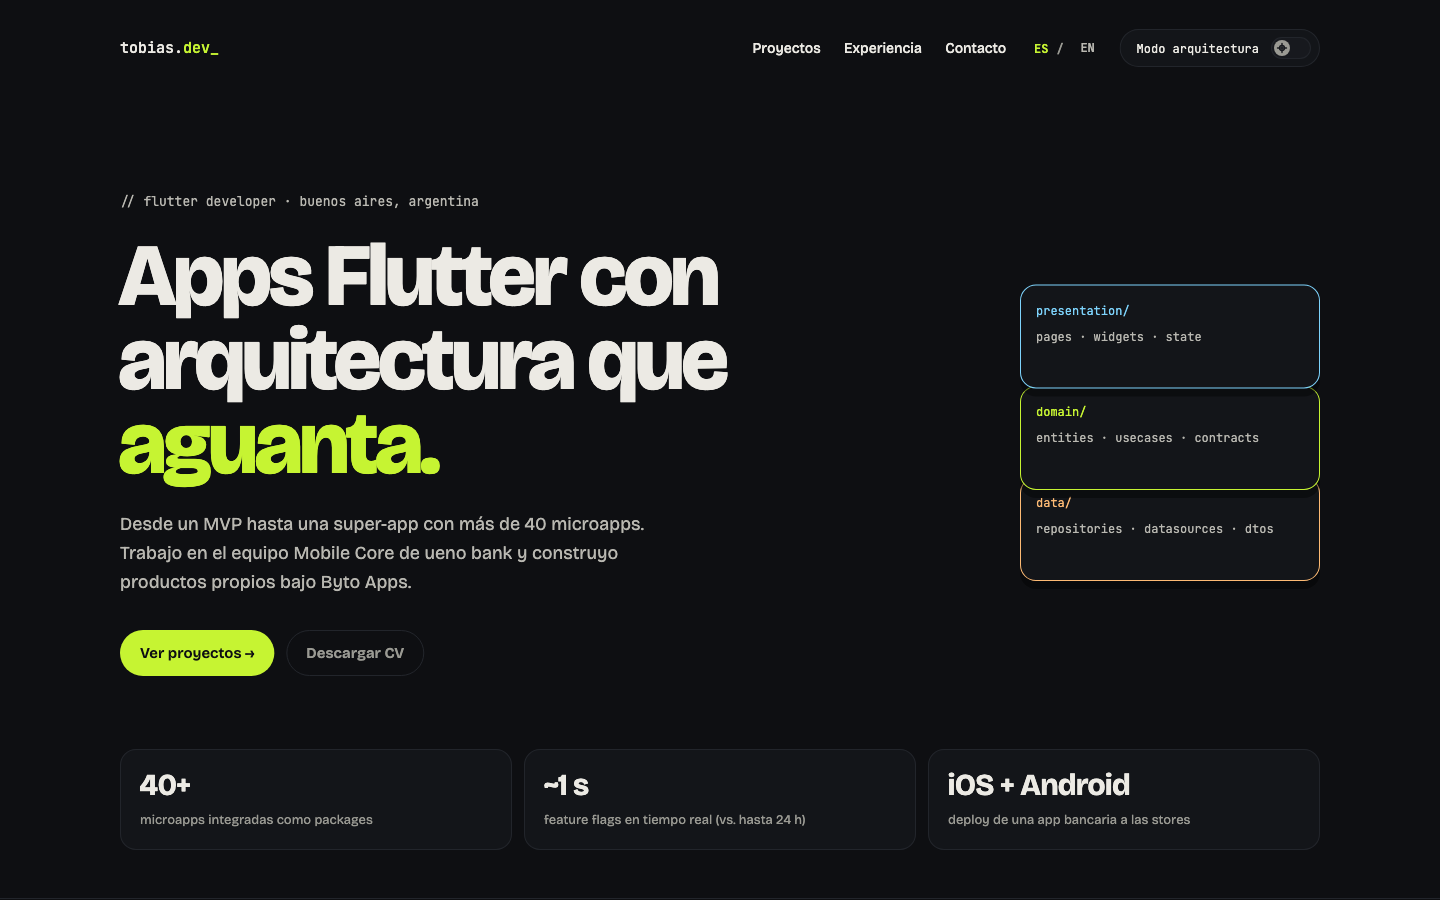
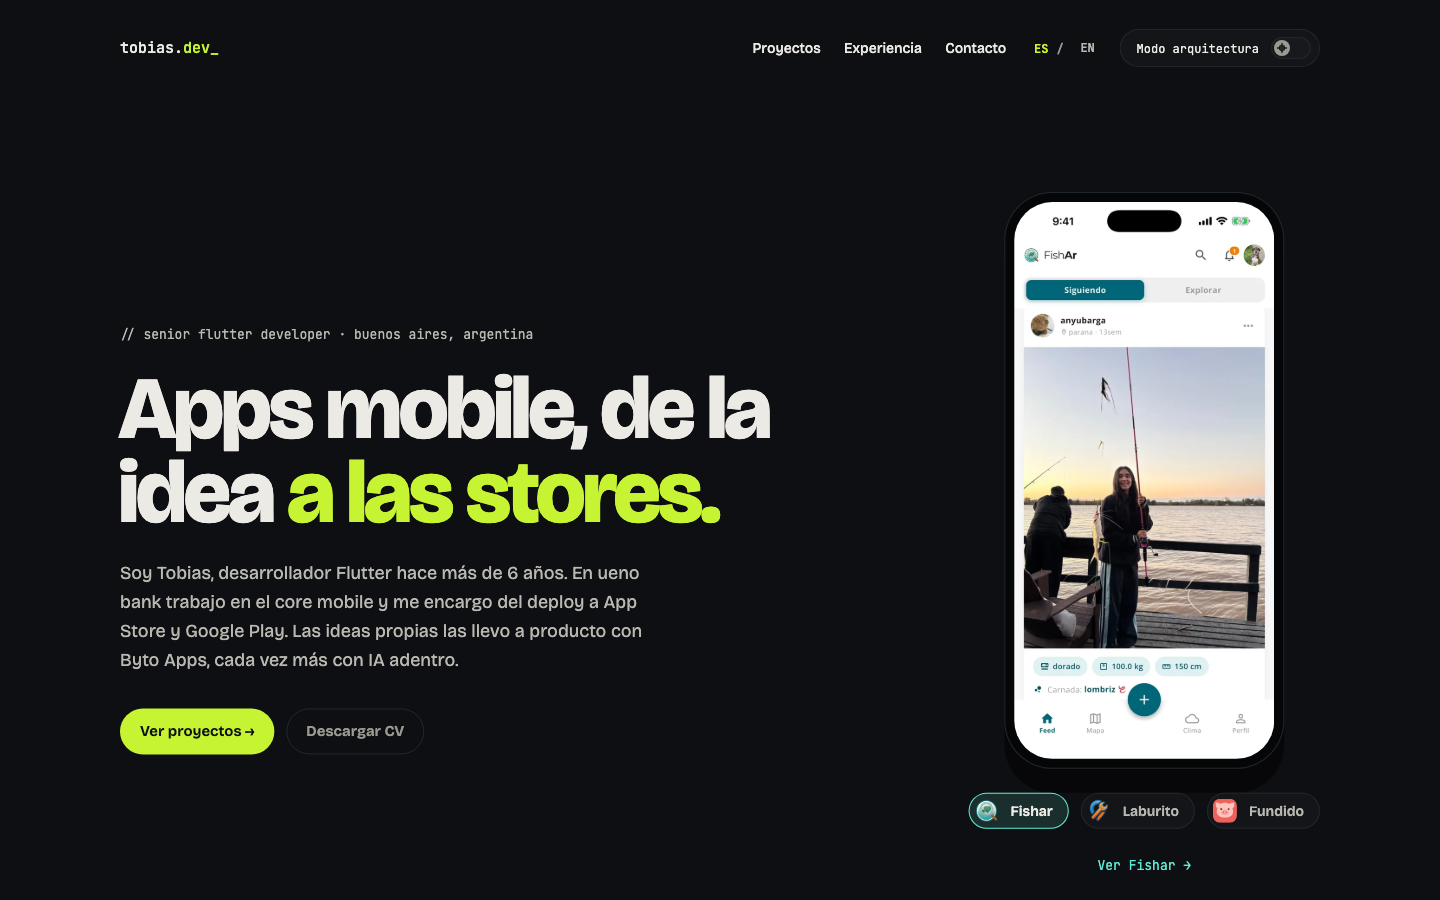
docs: new home in the README captures and notes

diff --git a/README.md b/README.md
@@ -140,7 +140,7 @@ lib/
     architecture_mode/ # LayerBadge, ArchitectureMap, grilla de plano, switch
     shaders/           # BlueprintBackground (carga shaders/blueprint.frag)
   features/
-    home/presentation/ # HomePage + nav, hero, métricas (compone secciones de los features)
+    home/presentation/ # HomePage + nav, hero, métricas, Byto Apps (compone secciones de los features)
     projects/{data,domain,presentation}/
     experience/{data,domain,presentation}/
     contact/{data,domain,presentation}/
@@ -181,7 +181,8 @@ cada sección vive en el feature dueño de sus datos (`ProjectsSection`,
   la home con el contenido real en ambos idiomas a 360, 768, 1280 y 1440 px y
   falla ante cualquier overflow o scroll horizontal.
 - **Animaciones:** entrada escalonada del hero, reveal de cada sección al
-  entrar al viewport, planchas flotantes, marquee infinito y hover en las cards.
+  entrar al viewport, el teléfono del hero que rota entre las apps reales,
+  marquee infinito y hover en las cards.
   Todas leen `MediaQuery.disableAnimations` y muestran el estado final con
   reduced motion.
 - **Textos:** los textos fijos están en los ARB; los datos salen de
@@ -277,7 +278,7 @@ los goldens no dependan del GPU.
 - **Teclado:** el primer Tab muestra "Saltar a los proyectos"; las cards se
   activan con Enter/Espacio; todos los botones tienen un anillo de foco visible.
 - **Reduced motion:** ninguna animación corre (entradas, reveal, marquee,
-  planchas, shader, cerdito, Hero).
+  teléfono del hero, shader, Hero).
 - [`accessibility_test.dart`](test/accessibility/accessibility_test.dart) corre
   las guías de Flutter (contraste de texto, botones etiquetados y objetivos de
   24×24 de WCAG 2.2) en la home y en tres detalles.

diff --git a/TODO.md b/TODO.md
@@ -80,8 +80,13 @@ Sacado de `~/Documents/mediomundo-app`, `~/Documents/laburito` y
       partir del español).
 - [ ] Textos en inglés de la home en `lib/l10n/app_en.arb` (hero, métricas,
       contacto, footer, tip): traducciones mías del mockup.
-- [ ] Métricas de la home: son las del PLAN/mockup ("40+", "~1 s",
-      "iOS + Android"). Confirmar que se pueden mostrar así.
+- [ ] Home nueva (hero, métricas y Byto Apps) con datos del CV: 6+ años con
+      Flutter, deploys a las stores (ueno bank, OneInfo, apps propias) e IA
+      (What's New con IA en ueno, Fundido). Revisar el tono de los textos
+      (`hero*`, `metric*`, `byto*` en los ARB).
+- [ ] Byto Apps: "Hechas por Toby" lista Fishar, Laburito y Fundido.
+      Confirmar si Laburito (proyecto final USAL) va bajo Byto Apps, y sumar
+      el año de inicio si querés mostrarlo.
 - [ ] Este portfolio: descripciones por capa y las 3 decisiones técnicas
       (`es/projects/portfolio.json`). Las escribí yo a partir de lo que tiene
       el repo; revisar el tono.
